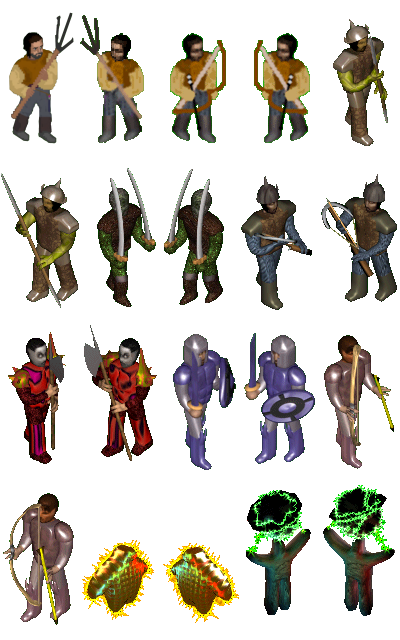
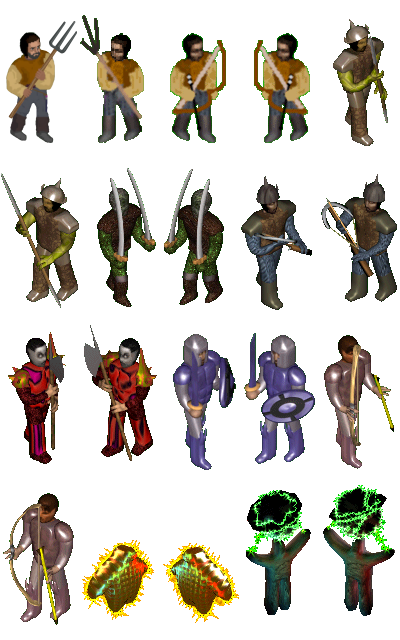
feat: refactoring, display peasant archer, spearman

Changed region(s): [[0.0, 0.0, 0.21, 0.2188]]

diff --git a/src/app.ts b/src/app.ts
@@ -2,6 +2,10 @@ import { Application, Sprite, Assets, Text, TextStyle, BitmapText, Spritesheet, 
 import pkg from './../package.json';
 import { HexMap } from './hex-map';
 import { CommonControls } from './common-controls';
+import { Coords } from './shared';
+import { Battle } from './battle';
+import { Army } from './army';
+import { Creature, CreatureType } from './creature';
 
 export enum GameState {
   InMenu,
@@ -11,15 +15,18 @@ export enum GameState {
   PostGameEnterHighscore
 }
 
-export interface Coords {
-  x: number, y: number
-}
+
 
 export class HexesApp {
 
   private currentGameState: GameState = GameState.InGame;
   private version: string = pkg.version;
+
   private hexMap: HexMap = new HexMap(15, 11);
+  private army1?: Army;
+  private army2?: Army;
+  private battle?: Battle;
+
   private NATIVE_RESOLUTION = { width: 1600, height: 900 };
 
   private ZOOM_LEVEL_MIN = 0.5;
@@ -75,13 +82,10 @@ export class HexesApp {
   private renderContainerOffset: Coords = { x: 0, y: 0 };
 
   private DEFAULT_FONT_STYLE: TextStyle | TextStyleOptions = { fontFamily: 'GustysSerpents', fontSize: 18, align: 'left' };
-  private CELL_SIZE = 80;
-
 
   // Store the touch zones for the directions and actions
 
   private tempMessage = "";
-  private needToAddHighscore: boolean = false;
 
   constructor(public app: Application) {
     // this.currentGameState = GameState.InMenu;
@@ -335,27 +339,69 @@ export class HexesApp {
       }
     }
 
+
     for (let i = 0; i < this.hexMap.height; i++) {
       // Add a render group
       this.unitRenderSubgroups.push(new Container({ isRenderGroup: true }));
       this.unitRenderGroup.addChild(this.unitRenderSubgroups[i]);
     }
 
-    // Add some random units
-    for (let j = this.hexMap.height - 1; j >= 0; j--) {
-      for (let i = this.hexMap.width - 1; i >= 0; i--) {
-        let { x, y } = this.hexMap.hexToPixel(i, j);
-        x -= this.hexMap.cellSize().x / 2;
-        y -= this.hexMap.cellSize().y / 2;
+    // Create the battle.
+    this.army1 = new Army();
+    this.army2 = new Army();
+    this.battle = new Battle(this.hexMap, this.army1, this.army2);
+    let creature = new Creature();
+    creature.position = { x: 0, y: 0 };
 
-        const unitSprite = new Sprite(this.unitsSheet?.textures['peasant_fork_right.png']);
-        unitSprite.x = x;
-        unitSprite.y = y;
-        this.unitSprites.push(unitSprite);
+    this.army1.creatures.push(creature);
+    creature = new Creature(CreatureType.SPEARMAN);
+    creature.position = { x: 1, y: 3 };
+    this.army1.creatures.push(creature);
 
-        this.unitRenderSubgroups[j].addChild(unitSprite);
+    creature = new Creature(CreatureType.PEASANT_ARCHER);
+    creature.position = { x: 2, y: 5 };
+    this.army1.creatures.push(creature);
+
+    this.army1.creatures.forEach((creature) => {
+      let { x, y } = this.hexMap.hexToPixel(creature.position.x, creature.position.y);
+      x -= this.hexMap.cellSize().x / 2;
+      y -= this.hexMap.cellSize().y / 2;
+
+      let unitTextureName = 'peasant_fork_right.png';
+      switch (creature.creatureType) {
+        case CreatureType.PEASANT:
+          unitTextureName = 'peasant_fork_right.png';
+          break;
+        case CreatureType.PEASANT_ARCHER:
+          unitTextureName = 'peasant_archer_right.png';
+          break;
+        case CreatureType.SPEARMAN:
+          unitTextureName = 'pikeman_right.png';
+          break;
       }
-    }
+      const unitSprite = new Sprite(this.unitsSheet?.textures[unitTextureName]);
+      unitSprite.x = x;
+      unitSprite.y = y;
+      this.unitSprites.push(unitSprite);
+
+      this.unitRenderSubgroups[creature.position.y].addChild(unitSprite);
+    });
+
+    // Add some random units
+    // for (let j = this.hexMap.height - 1; j >= 0; j--) {
+    //   for (let i = this.hexMap.width - 1; i >= 0; i--) {
+    //     let { x, y } = this.hexMap.hexToPixel(i, j);
+    //     x -= this.hexMap.cellSize().x / 2;
+    //     y -= this.hexMap.cellSize().y / 2;
+
+    //     const unitSprite = new Sprite(this.unitsSheet?.textures['peasant_fork_right.png']);
+    //     unitSprite.x = x;
+    //     unitSprite.y = y;
+    //     this.unitSprites.push(unitSprite);
+
+    //     this.unitRenderSubgroups[j].addChild(unitSprite);
+    //   }
+    // }
   }
 
 

diff --git a/src/hex-map.ts b/src/hex-map.ts
@@ -1,32 +1,27 @@
+export class HexMapConfig {
+  public OFFSET_X = 0;
+  public OFFSET_Y = 0;
+  public CELL_WIDTH = 80;
+  public CELL_HEIGHT = 92;
+}
+
+
 export class HexMap {
 
-  private OFFSET_X = 0;
-  private OFFSET_Y = 0;
-  private CELL_WIDTH = 80;
-  private CELL_HEIGHT = 92;
+  static DEFAULT_HEX_MAP_CONFIG: HexMapConfig = {
+    OFFSET_X: 0,
+    OFFSET_Y: 0,
+    CELL_WIDTH: 80,
+    CELL_HEIGHT: 92
+  };
 
-  static readonly ZOOM_LEVEL_MIN = 0.5;
-  static readonly ZOOM_LEVEL_MAX = 2;
+  public offset(): { x: number, y: number } { return { x: this.config.OFFSET_X, y: this.config.OFFSET_Y }; }
+  public setOffset(x: number, y: number) { this.config.OFFSET_X = x; this.config.OFFSET_Y = y; }
+  public cellSize(): { x: number, y: number } { return { x: this.config.CELL_WIDTH, y: this.config.CELL_HEIGHT }; }
+  public setCellSize(size: number) { this.config.CELL_WIDTH = size; }
 
-  private zoomLevel_ = 1;
+  constructor(public width: number, public height: number, private config: HexMapConfig = HexMap.DEFAULT_HEX_MAP_CONFIG) {
 
-  public offset(): { x: number, y: number } { return { x: this.OFFSET_X, y: this.OFFSET_Y }; }
-  public setOffset(x: number, y: number) { this.OFFSET_X = x; this.OFFSET_Y = y; }
-  public cellSize(): { x: number, y: number } { return { x: this.CELL_WIDTH, y: this.CELL_HEIGHT }; }
-  public setCellSize(size: number) { this.CELL_WIDTH = size; }
-
-  public get zoomLevel(): number { return this.zoomLevel_; }
-  public set zoomLevel(value: number) {
-    if (value < HexMap.ZOOM_LEVEL_MIN || value > HexMap.ZOOM_LEVEL_MAX) {
-      console.log(`Zoom level must be between ${HexMap.ZOOM_LEVEL_MIN} and ${HexMap.ZOOM_LEVEL_MAX}`);
-      return;
-    }
-    this.zoomLevel_ = value;
-    this.CELL_WIDTH = 80 * value;
-    this.CELL_HEIGHT = 92 * value;
-  }
-
-  constructor(public width: number, public height: number) {
   }
 
   /**
@@ -39,9 +34,9 @@ export class HexMap {
    */
   public hexToPixel(q: number, r: number): { x: number, y: number } {
     const SQRT3 = Math.sqrt(3);
-    const cellSize = this.CELL_WIDTH / SQRT3;
-    let x = this.OFFSET_X + cellSize * (SQRT3 * q + SQRT3 / 2 * r);
-    let y = this.OFFSET_Y + cellSize * (3.0 / 2 * r);
+    const cellSize = this.config.CELL_WIDTH / SQRT3;
+    let x = this.config.OFFSET_X + cellSize * (SQRT3 * q + SQRT3 / 2 * r);
+    let y = this.config.OFFSET_Y + cellSize * (3.0 / 2 * r);
 
     // Adjust the horizontal position.
     // {0, 0} => {0, 0}
@@ -49,7 +44,7 @@ export class HexMap {
     // {0, 2} => {1, 2}
     //  {0, 3} => {1, 3}
     // {0, 4} => {2, 4}
-    x -= Math.floor(r / 2) * this.CELL_WIDTH;
+    x -= Math.floor(r / 2) * this.config.CELL_WIDTH;
 
     return { x, y };
   }
@@ -62,8 +57,8 @@ export class HexMap {
    */
   public pixelToHex(x: number, y: number): { x: number, y: number } {
     const SQRT3 = Math.sqrt(3);
-    let coordsWithoutOffset: { x: number, y: number } = { x: x - this.OFFSET_X, y: y - this.OFFSET_Y };
-    const cellSize = this.CELL_WIDTH / SQRT3;
+    let coordsWithoutOffset: { x: number, y: number } = { x: x - this.config.OFFSET_X, y: y - this.config.OFFSET_Y };
+    const cellSize = this.config.CELL_WIDTH / SQRT3;
 
     let q = (coordsWithoutOffset.x * SQRT3 / 3 - coordsWithoutOffset.y / 3) / cellSize;
     let r = coordsWithoutOffset.y * 2 / 3 / cellSize;

diff --git a/src/creature.ts b/src/creature.ts
@@ -1,0 +1,58 @@
+import { Coords } from "./shared";
+
+export class CreatureStats {
+  health: number;
+  attack_low: number;
+  attack_high: number;
+  defense_melee: number;
+  defense_ranged: number;
+  defense_magic: number;
+  speed: number;
+  initiative: number;
+}
+
+export enum CreatureType {
+  PEASANT = 0,
+  PEASANT_ARCHER = 1,
+  SWORDSMAN = 2,
+  SPEARMAN = 3,
+  CROSSBOWMAN = 4,
+  ARCHER = 5,
+};
+
+/**
+ * Define a creature that is placed on the hex battle map.
+ */
+export class Creature {
+
+  static DEFAULT_CREATURE_PROPS: CreatureStats = {
+    health: 12,
+    attack_low: 3,
+    attack_high: 6,
+    defense_melee: 0,
+    defense_ranged: 0,
+    defense_magic: 0,
+    speed: 4,
+    initiative: 4
+  };
+
+  public position: Coords = { x: 0, y: 0 };
+
+  constructor(
+    public creatureType: CreatureType = CreatureType.PEASANT,
+    public stats: CreatureStats = Creature.DEFAULT_CREATURE_PROPS) {
+  }
+
+  public get isAlive(): boolean {
+    return this.stats.health > 0;
+  }
+
+  public takeDamage(damage: number) {
+    this.stats.health -= damage;
+  }
+
+  public getRandomAttackDamage(): number {
+    return this.stats.attack_low + Math.floor(Math.random() * (this.stats.attack_high - this.stats.attack_low + 1));
+  }
+
+}

diff --git a/src/army.ts b/src/army.ts
@@ -1,0 +1,13 @@
+import { Creature } from "./creature";
+
+/**
+ * Store an entire army of units taking part in a battle.
+ * This class will be used to store the units that are placed on the hex battle map.
+ * Each player will have an army of units.
+ */
+export class Army {
+
+  public creatures: Creature[] = [];
+
+  
+}

diff --git a/src/battle.ts b/src/battle.ts
@@ -1,0 +1,14 @@
+import { Army } from "./army";
+import { HexMap } from "./hex-map";
+
+/**
+ * Handles a battle on the hex battle map between two armies.
+ */
+export class Battle {
+  constructor(
+    public hexMap: HexMap,
+    public army1: Army,
+    public army2: Army) {
+  }
+  
+}

diff --git a/src/shared.ts b/src/shared.ts
@@ -1,0 +1,3 @@
+export interface Coords {
+  x: number, y: number
+}
